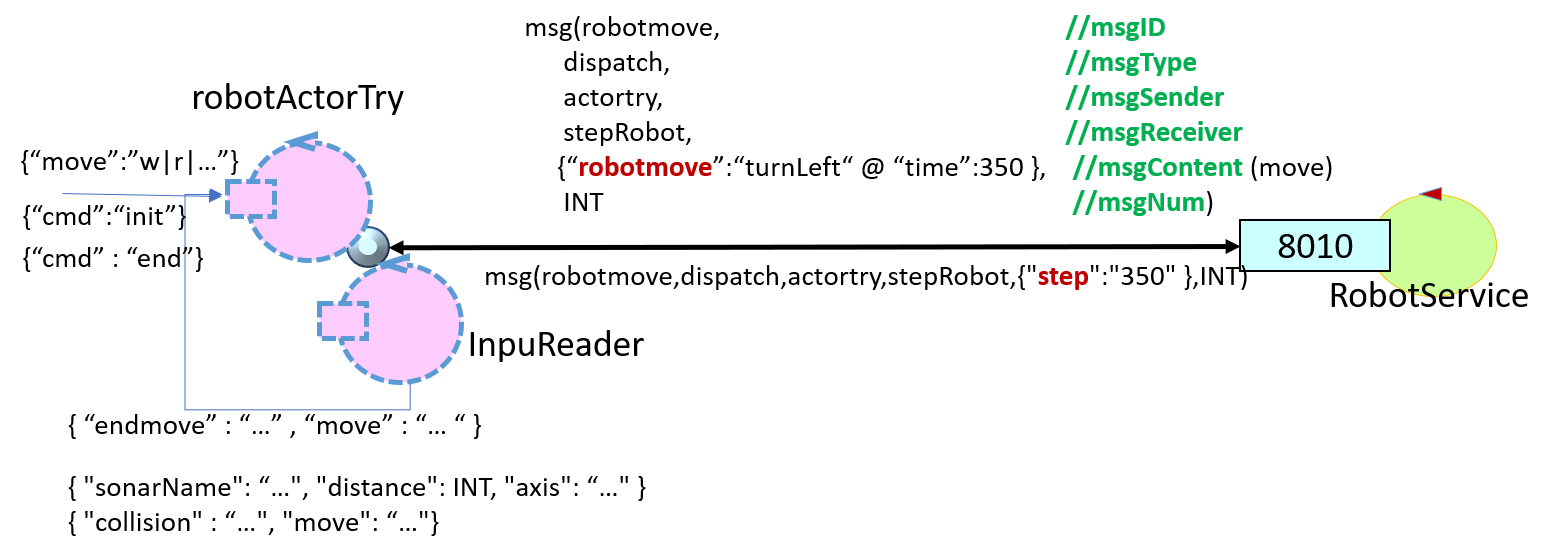
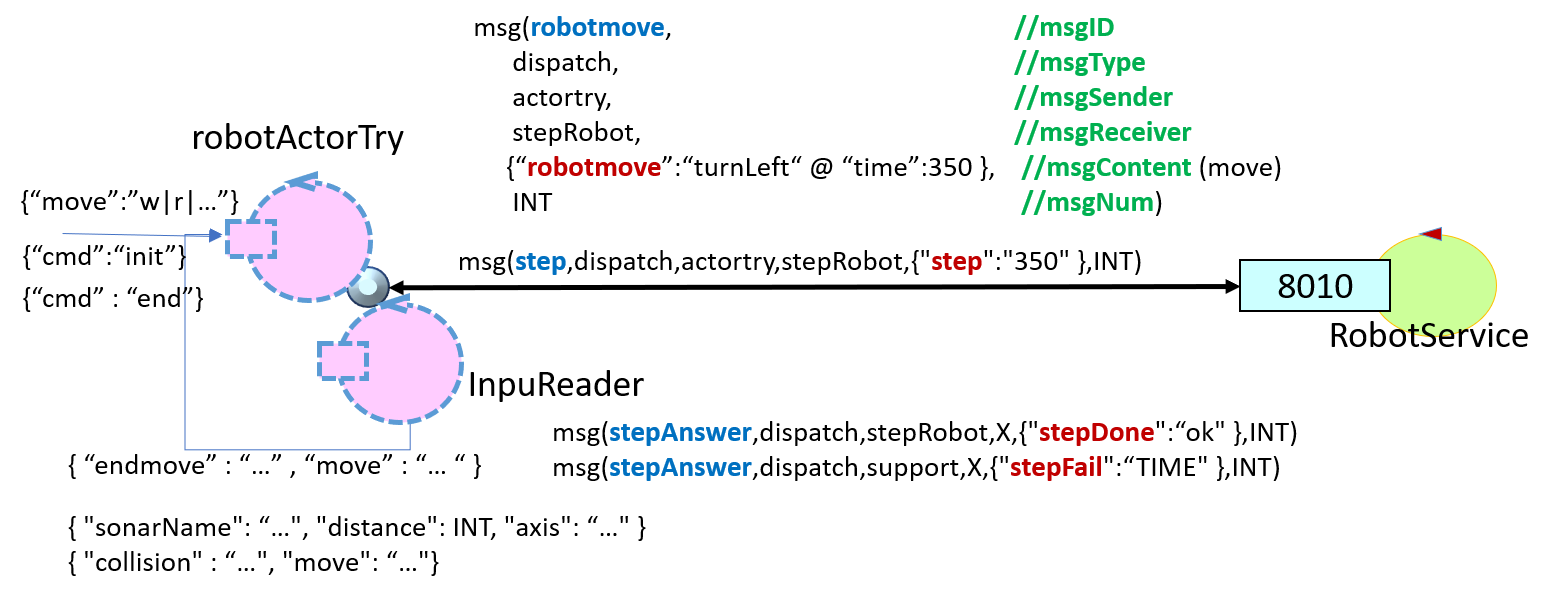
RobotExecutor

Changed region(s): [[0.0, 0.0305, 0.9897, 0.7935], [0.3402, 0.702, 0.8351, 0.8241], [0.0309, 0.8546, 0.433, 0.9767]]

diff --git a/it.unibo.kotlinSupports/app/src/main/kotlin/it/unibo/robotService/BasicStepRobotActor.kt b/it.unibo.kotlinSupports/app/src/main/kotlin/it/unibo/robotService/BasicStepRobotActor.kt
@@ -76,12 +76,11 @@ class BasicStepRobotActor(name: String, val ownerActor: ActorBasicKotlin,
             timer?.kill()
             //println("$name | endStepKo DTTTTTTTTTTTTTTTTTTTTTTTTTTTTTTTTTTTT $dtVal")
             backMsg = "{\"robotmove\":\"moveBackward\", \"time\": BACKT}".replace("BACKT", dtVal)
-            colorPrint("$name | answer=$answer backMsg=$backMsg", Color.BLUE)
+            colorPrint("$name | backMsg=$backMsg" )
             delay(350)  //back immediately after a collision is not allowed
             support.forward(backMsg)
             //no change to currentBasicMove => no result propagation
-            //HYPOTHESIS: a little back move does not raise a collision
-            //delay(350)  //back immediately after a collision is not allowed
+            //HYPOTHESIS: a little back move does not raise a collisio
             answer = ApplMsgs.stepFailMsg.replace("TIME", dtVal)
             val m  = MsgUtil.buildDispatch( name,"stepAnswer", answer,ownerActor.myname() )
             ownerActor.send(m)
@@ -94,7 +93,7 @@ class BasicStepRobotActor(name: String, val ownerActor: ActorBasicKotlin,
 ======================================================================================
  */
 override suspend fun handleInput(msg: ApplMessage) {
-    colorPrint(  "$name | AbstractRobotActor handleInput msg=$msg")
+    colorPrint(  "$name | AbstractRobotActor handleInput $msg currentBasicMove=$currentBasicMove")
     val infoJsonStr = msg.msgContent //.replace("@",",")
     val infoJson    = JSONObject(infoJsonStr)
         //if (! infoJson.has("sonarName"))
@@ -115,7 +114,9 @@ override suspend fun handleInput(msg: ApplMessage) {
                 //currentBasicMove = "";        //set by endMove
             }else{
                 val dtVal = this.getDuration(StartTime)
-                this.endStepKo(""+dtVal);
+                if( currentBasicMove.length == 0 ) this.endStepKo(""+dtVal)
+                else{  //time elapsed for a convnetional move
+                }
             }
         }else if( infoJson.has("robotmove") && currentBasicMove.length > 0 ){ //another move while working
             colorPrint("$name BasicStepRobotActor |  move already running: store the request", Color.LIGHT_MAGENTA)
@@ -125,8 +126,6 @@ override suspend fun handleInput(msg: ApplMessage) {
             msgDriven(infoJson )
         }else if (infoJson.has("endmove")){
             val moveResult = infoJson.getString("endmove")
-            //answer only for moves that fail ???
-            //if( moveResult != "true" && currentBasicMove.length > 0 ) {
             if(  currentBasicMove.length > 0 ) {
                 val payload = "{ \"endmove\" : \"$moveResult\",\"move\": \"$currentBasicMove\"}"
                 val m = MsgUtil.buildDispatch( name,"endmove", payload, ownerActor.myname() )
@@ -138,7 +137,7 @@ override suspend fun handleInput(msg: ApplMessage) {
             }
             if( msgQueueStore.size > 0 ){
                 val next    = msgQueueStore.removeAt(0)
-                val msgJson = JSONObject(next.msgContent) //.replace("@", ",")already done=?
+                val msgJson = JSONObject(next.msgContent)
                 //this.waitUser("msgQueueStore2")
                 msgDriven( msgJson  )
             }

diff --git a/it.unibo.cautiousExplorer/app/src/main/kotlin/demoWithRobot/BasicStepRobotActorCaller.kt b/it.unibo.cautiousExplorer/app/src/main/kotlin/demoWithRobot/BasicStepRobotActorCaller.kt
@@ -10,7 +10,7 @@ import kotlinx.coroutines.runBlocking
 import org.json.JSONObject
 
 class SimpleRobotCaller(name: String ) : ActorBasicKotlin( name ) {
-/*
+    /*
     private val stepMsg = "{\"step\":\"350\" }"
     private val turnLeftMsg = "{\"robotmove\":\"turnLeft\" @ \"time\": 300}"
     private val turnleft = buildDispatch("main", "move", turnLeftMsg, "stepRobot")
@@ -20,6 +20,8 @@ class SimpleRobotCaller(name: String ) : ActorBasicKotlin( name ) {
 
     protected fun doMoves() {
         robot.registerActor(this)
+        //robot.send(ApplMsgs.stepRobot_w("main", "800"))
+
         robot.send(ApplMsgs.stepRobot_step("main", "350"))
         //robot.send(turnleft.toString())
     }
@@ -32,15 +34,19 @@ class SimpleRobotCaller(name: String ) : ActorBasicKotlin( name ) {
         if (msg.msgId == "stepAnswer") {
             val answerJson = JSONObject(msg.msgContent)
             if (answerJson.has("stepDone")) {
-                robot.send( ApplMsgs.stepRobot_l("main") )
+                robot.send(ApplMsgs.stepRobot_l("main"))
+            }else if (answerJson.has("stepFail")){
+                val tback = answerJson.getString("stepFail")
+                println("$name | handleInput stepFail tback=$tback")
+                //robot.send(ApplMsgs.stepRobot_s("main", tback))
             }
         }
         if (msg.msgId == "endmove") {
-            val answerJson = JSONObject(msg.msgContent.replace("@", ","))
-            if (answerJson.getString("endmove") != "notallowed") {
-                robot.terminate()
-                terminate()
-                System.exit(0 )
+            val answerJson = JSONObject(msg.msgContent)  //.replace("@", ","))
+            if (answerJson.has("endmove")) {//&& answerJson.getString("endmove") == "notallowed"){
+                val endmove = answerJson.getString("endmove")
+                val move = answerJson.getString("move")
+                println("endmove=${endmove} move=$move")
             }
         }
     }
@@ -49,9 +55,9 @@ class SimpleRobotCaller(name: String ) : ActorBasicKotlin( name ) {
 fun main( ) {
     println("BEGINS CPU=${sysUtil.cpus} ${sysUtil.curThread()}")
     runBlocking {
-        val myrobot = SimpleRobotCaller("myrobot")
+        val rc = SimpleRobotCaller("rc")
 
-        myrobot.send(ApplMsgs.startAny("main"))
+        rc.send(ApplMsgs.startAny("main"))
 
         //delay(5000)
 

diff --git a/it.unibo.cautiousExplorer/app/src/main/kotlin/demoWithRobot/PathExecutor.kt b/it.unibo.cautiousExplorer/app/src/main/kotlin/demoWithRobot/PathExecutor.kt
@@ -1,5 +1,5 @@
 /*
-RobotExecutor.kt
+PathExecutor.kt
 
 An unibo-actor that executes a given sequence of moves (todoPath)
 and returns to its ownerActor
@@ -22,7 +22,7 @@ import java.lang.Exception
 The map is a singleton object, managed by mapUtil
  */
 @Suppress("REDUNDANT_ELSE_IN_WHEN")
-class RobotExecutor (name: String, scope: CoroutineScope, protected var ownerActor: ActorBasicKotlin)
+class PathExecutor (name: String, scope: CoroutineScope, protected var ownerActor: ActorBasicKotlin)
     : ActorBasicKotlin( name, scope ) {
                                             //: AbstractRobotActor(name, "localhost") {
     protected enum class State { start, continueJob, moving, turning }
@@ -65,15 +65,15 @@ class RobotExecutor (name: String, scope: CoroutineScope, protected var ownerAct
 
     protected fun obstacleFound() {
         println("$name | END FAIL ---------------- ")
-        moves.showMap()
+        //moves.showMap()
         try {
             moves.setObstacle()
         } catch (e: Exception) { //wall
             println("$name | outside the map " + e.message)
         }
         moves.showMap()
-        ownerActor.send(
-            ApplMsgs.executorendkoMsg.replace("PATHDONE", moves.getJourney())
+
+        ownerActor.send(ApplMsgs.executorFailEnd(name, moves.getJourney())
         )
     }
 
@@ -146,11 +146,11 @@ class RobotExecutor (name: String, scope: CoroutineScope, protected var ownerAct
 fun main( ) {
     println("BEGINS CPU=${sysUtil.cpus} ${sysUtil.curThread()}")
     runBlocking {
-        val path     = "wl"
+        val path     = "wlwwwwwwrwrr"
         val cmdStr   = ApplMsgs.executorstartMsg.replace("PATHTODO", path)
         val cmd      = MsgUtil.buildDispatch("main",ApplMsgs.executorStartId,cmdStr,"executor")
-        val obs      = NaiveObserverActorKotlin("obs",  this)
-        val executor = RobotExecutor("executor", this, obs)
+        val obs      = NaiveObserverActorKotlin("peobs",  this)
+        val executor = PathExecutor("pathExec", this, obs)
         executor.send(cmd)
         println("ENDS runBlocking ${sysUtil.curThread()}")
     }

diff --git a/it.unibo.cautiousExplorer/app/src/main/kotlin/demoWithRobot/CautiousRobotExplorer.kt b/it.unibo.cautiousExplorer/app/src/main/kotlin/demoWithRobot/CautiousRobotExplorer.kt
@@ -13,13 +13,13 @@ import mapRoomKotlin.mapUtil
 class CautiousRobotExplorer( name: String, scope: CoroutineScope) : ActorBasicKotlin(name,scope) {
 
 
-    private lateinit var executor: RobotExecutor
+    private lateinit var executor: PathExecutor
 
     fun initWork(){
         plannerUtil.initAI()
         println("===== initial map")
         plannerUtil.showMap()
-        executor = RobotExecutor("executor", scope, this)
+        executor = PathExecutor("executor", scope, this)
     }
     fun explore() {
         plannerUtil.setGoal(1, 1);
@@ -63,7 +63,7 @@ class CautiousRobotExplorer( name: String, scope: CoroutineScope) : ActorBasicKo
             plannerUtil.showMap()
             val atHome = plannerUtil.atHome()
             println("$name | atHome: ${atHome}")
-            plannerUtil.showCurrentRobotState()
+            //plannerUtil.showCurrentRobotState()
             if( ! atHome ) {
                 waitUser("backToHome")
                 backToHome()

diff --git a/it.unibo.kotlinSupports/app/src/main/kotlin/it/unibo/robotService/ApplMsgs.kt b/it.unibo.kotlinSupports/app/src/main/kotlin/it/unibo/robotService/ApplMsgs.kt
@@ -68,7 +68,15 @@ object ApplMsgs {
     val startMsgStr = "{\"start\":\"ok\" }"
     val endMsgStr = "{\"end\":\"ok\" }"
 
-
+    fun stepRobot_w(caller:String, time: String="350") : ApplMessage {
+        return MsgUtil.buildDispatch(caller, "move", forwardMsg.replace("350",time), "stepRobot")
+    }
+    fun stepRobot_s(caller:String, time: String="350") : ApplMessage {
+        return MsgUtil.buildDispatch(caller, "move", backwardMsg.replace("350",time), "stepRobot")
+    }
+    fun stepRobot_h(caller:String, time: String="20") : ApplMessage {
+        return MsgUtil.buildDispatch(caller, "move", haltMsg.replace("20",time), "stepRobot")
+    }
     fun stepRobot_l(caller:String) : ApplMessage {
         return MsgUtil.buildDispatch(caller, "move", turnLeftMsg, "stepRobot")
     }

diff --git a/it.unibo.cautiousExplorer/app/src/main/kotlin/demoWithRobot/NaiveObserverActorKotlin.kt b/it.unibo.cautiousExplorer/app/src/main/kotlin/demoWithRobot/NaiveObserverActorKotlin.kt
@@ -7,9 +7,11 @@ import org.json.JSONObject
 class NaiveObserverActorKotlin(name: String, scope:CoroutineScope)
                                      : ActorBasicKotlin(name, scope) {
 
-    override protected suspend fun handleInput(info : ApplMessage){
+    override suspend fun handleInput(info : ApplMessage){
+        println("$name  | msgJson=$info   " )
+        /*
         var msgJsonStr = info.msgContent
         val msgJson = JSONObject(msgJsonStr)
-        println("$name  | msgJson=$msgJson   " )
+        println("$name  | msgJson=$msgJson   " )*/
     }
 }

diff --git a/it.unibo.kotlinSupports/app/src/main/kotlin/mapRoomKotlin/mapUtil.kt b/it.unibo.kotlinSupports/app/src/main/kotlin/mapRoomKotlin/mapUtil.kt
@@ -24,9 +24,11 @@ object mapUtil{
     }
 
     private fun setObstacleOnCell(){
+        sysUtil.colorPrint("setObstacleOnCell ${state.x},${state.y}", Color.RED)
 		map.put( state.x,  state.y, Box(true, false, false))
 	}
-    @JvmStatic fun setObstacle() {  //trick!!
+    @JvmStatic
+    fun setObstacle() {  //trick!!
         doMove("w")
         setObstacleOnCell()
         doMove("s")
